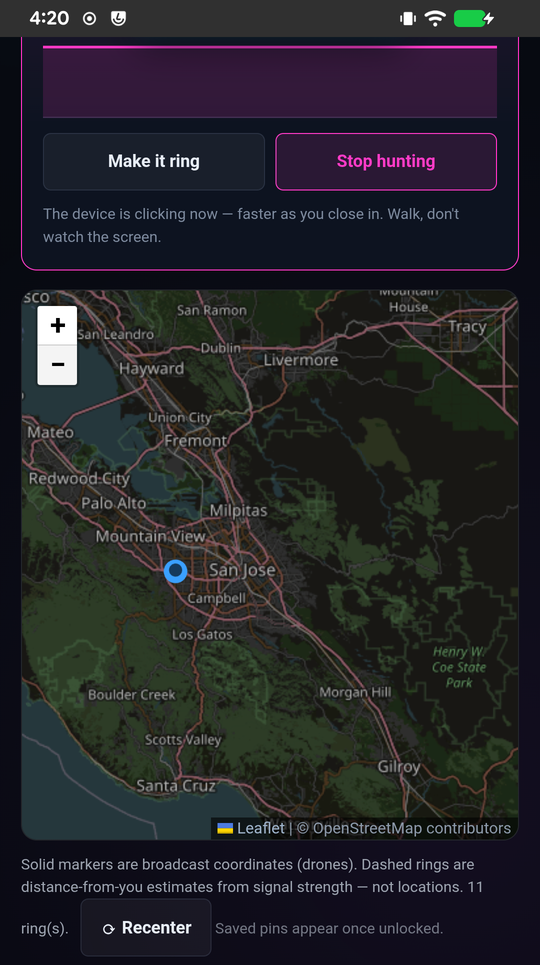
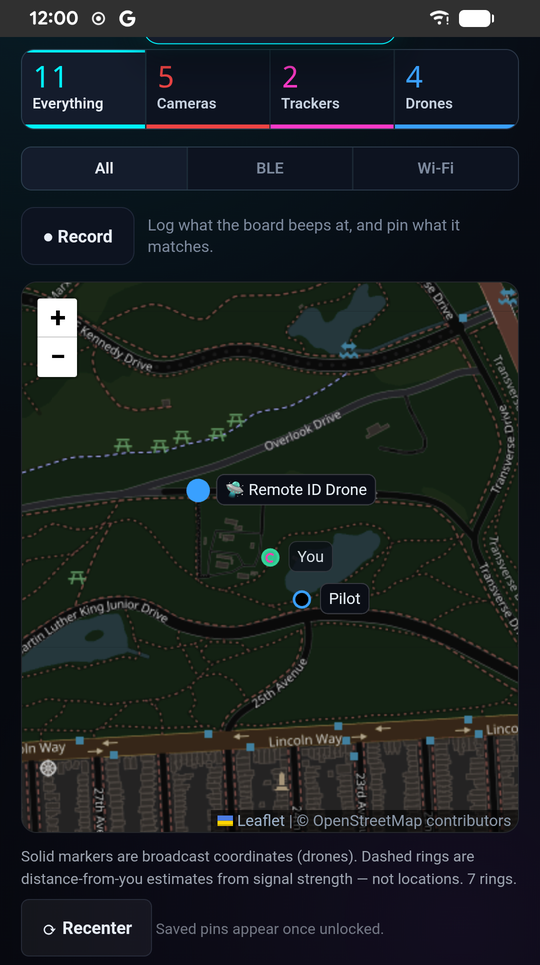
Refresh README screenshots and add a second row
The old shots showed the header icons and status strip that were removed.
New ones come from the bench rig (filter on, emitter personas, mock location
in a public park), so no real address, SSID or position is in any frame.
Adds the alert settings, a tag-flood time-lapse and the cameras lens.

diff --git a/README.md b/README.md
@@ -15,7 +15,10 @@ The phone app is optional. It shows what's here right now, then forgets it.
 | `live` | `hunt <mac>` | `map` |
 |---|---|---|
 | ![Live scope](docs/img/scope.png) | ![Foxhunt](docs/img/foxhunt.png) | ![Drone on the map](docs/img/map-drone.png) |
-| Live matches, strongest first. Every Wi-Fi row shows its band and channel, and a router's radios fold into one row. Cleared when you disconnect. | One target. The beeps speed up as you close in. Walk, don't watch the screen. | Full ASTM F3411 decode: aircraft position and operator position. |
+| Live matches, strongest first. Every Wi-Fi row shows its band and channel, and a router's radios fold into one row. Cleared when you disconnect. | One target. The beeps speed up as you close in. Walk, don't watch the screen. | Full ASTM F3411 decode. That's the aircraft. The other pin is the pilot. |
+| `beep --id` | `tagflood` | `live --lens cameras` |
+| ![Alert settings](docs/img/alerts.png) | ![Tag flood](docs/img/tagflood.gif) | ![Cameras lens](docs/img/cameras.png) |
+| A sound and a light per category. Switch one off and it's still listed, just quiet. | Someone's spamming fake trackers. The list fills up, the alert count stops climbing. | Tap a tab and the board only beeps for that. (Bench emitter faking a Flock probe and a Flock BLE name.) |
 
 ---
 
